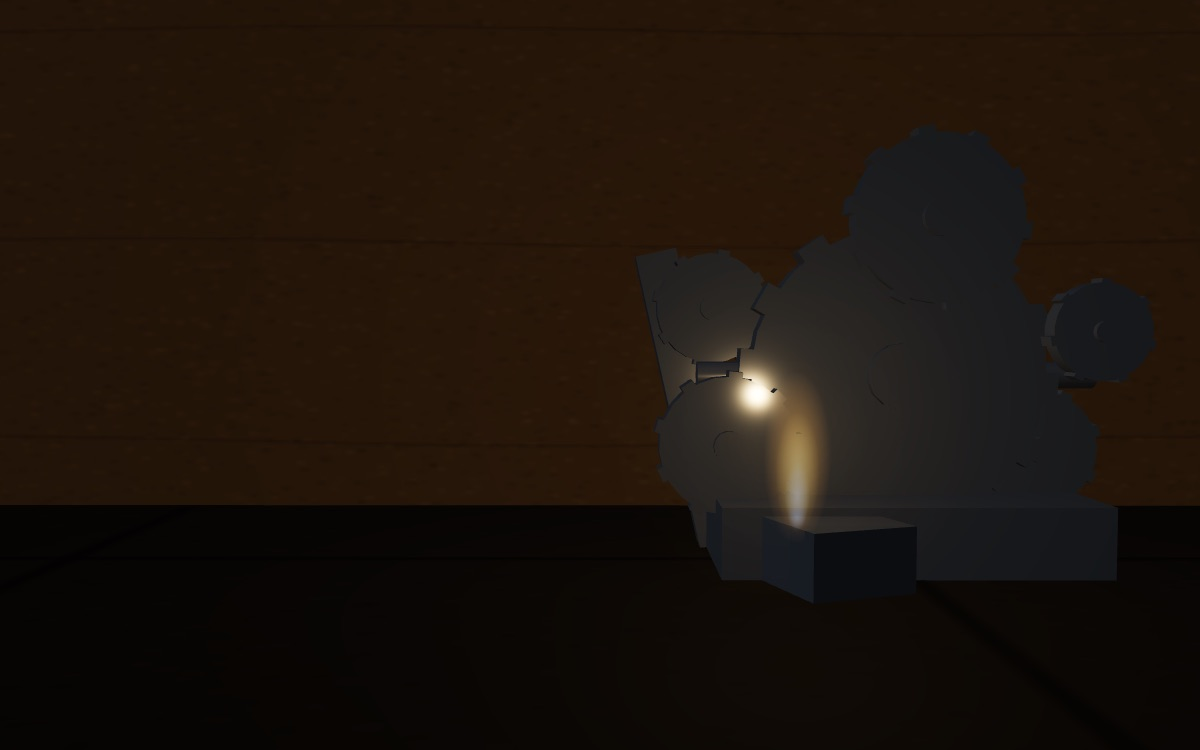
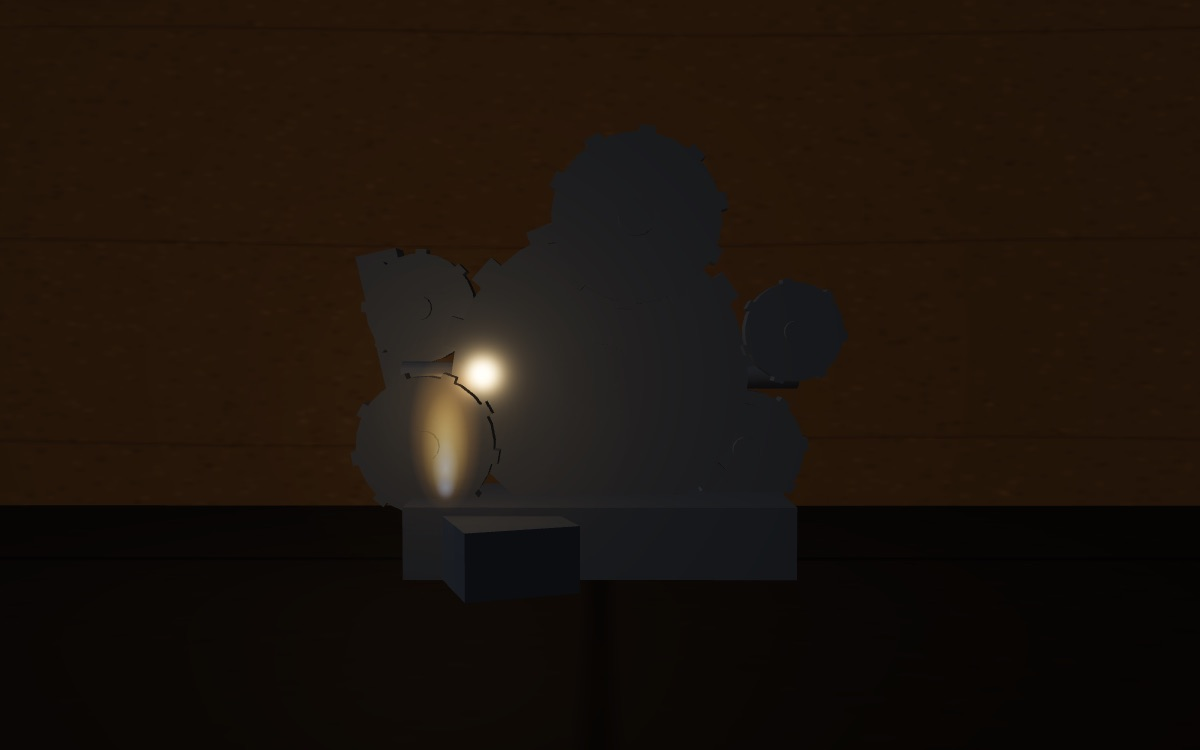
Glossaire : travail-mort-et-vivant réécrite selon la charte, direction artistique « la forge de nuit »

diff --git a/glossaire/mondes/travail-mort-et-vivant/essai.html b/glossaire/mondes/travail-mort-et-vivant/essai.html
@@ -1,48 +1,77 @@
-<!-- L'ESSAI — le corps de /glossaire/travail-mort-et-vivant.
-     data-s="3" = Troisième section de Roy (ch. VII–XI) ; data-s="4" =
-     quatrième section (ch. XII–XV). La paire traverse le livre : elle n'a
-     pas de chapitre à elle, et c'est précisément ce qu'il faut montrer. -->
+<!-- L'ESSAI : le corps de /glossaire/travail-mort-et-vivant.
+     Fragment HTML, assemblé par tools/gen-seo.mjs dans le gabarit des pages
+     de notion (avec meta.json pour la tête, l'appareil et le monde).
+     Réécrit en octobre 2026 selon glossaire/mondes/CHARTE.md.
+     data-s="3" = troisième section de Roy (chapitres VII à XI) ;
+     data-s="4" = quatrième section (chapitres XII à XV). La paire n'a pas
+     de chapitre à elle : on la suit d'une station à l'autre.
+     Un <q> ou <blockquote> data-s data-q est une phrase RELEVÉE dans le
+     texte que la liseuse sert, au caractère près (apostrophe typographique,
+     insécables de Roy). Ne rien « corriger ». -->
 
 <section class="nt-sec" data-etape="fait" id="fait">
-<h2>Ce qui ne bouge pas tout seul</h2>
-<p>Entrons dans une fabrique arrêtée. Il y a là des bâtiments, des arbres de couche, des métiers, des tonnes de matière première&nbsp;: une masse énorme de travail humain, accumulée sur des décennies, et absolument rien qui se passe. Pire que rien, même, car ces choses ne se contentent pas d'attendre&nbsp;: <q data-s="3" data-q="Le fer se rouille, le bois pourrit, la laine non travaillée est rongée par les vers">Le fer se rouille, le bois pourrit, la laine non travaillée est rongée par les vers</q>. Livré à lui-même, le travail passé se défait.</p>
-<p>C'est le premier terme de la paire, et Marx l'appelle du <i>travail mort</i>&nbsp;: non par mépris, mais parce que le mot dit exactement ce qu'il est — du travail achevé, fixé dans une chose, incapable de rien produire de plus. Il faut, pour qu'il serve encore, que quelque chose vienne l'atteindre&nbsp;: <q data-s="3" data-q="Le travail vivant doit ressaisir ces objets, les ressusciter des morts et les convertir d’utilités possibles en utilités efficaces">Le travail vivant doit ressaisir ces objets, les ressusciter des morts et les convertir d'utilités possibles en utilités efficaces</q>. La phrase qui suit est l'une des plus belles du livre, et la métaphore y est réglée au plus juste&nbsp;: <q data-s="3" data-q="Léchés par la flamme du travail, transformés en ses organes, appelés par son souffle à remplir le">Léchés par la flamme du travail, transformés en ses organes, appelés par son souffle à remplir le</q>s fonctions auxquelles leur destination les appelle.</p>
-<p>Voilà donc le problème, et il n'est pas celui qu'on croit. Il ne s'agit pas de décider laquelle des deux espèces de travail est la plus utile (la question serait vide, aucune ne va sans l'autre), mais de comprendre pourquoi, dans la production capitaliste, celle qui ne peut rien faire d'elle-même finit par commander celle qui peut tout.</p>
+<h2>Que veut dire «&nbsp;travail mort&nbsp;»&nbsp;?</h2>
+<p class="nt-lead">Le travail mort est le travail passé, déposé dans des choses&nbsp;: les bâtiments, les machines, les matières premières. Il ne produit rien de lui-même, et laissé à lui-même il se défait.</p>
+<p>Entrons dans une fabrique arrêtée. Il y a là des murs, des arbres de transmission, des métiers, des balles de coton&nbsp;: des années de travail humain, accumulées et immobiles. Rien ne s'y passe. Marx ajoute que ces choses ne se contentent pas d'attendre. <q data-s="3" data-q="Une machine qui ne sert pas au travail est inutile">Une machine qui ne sert pas au travail est inutile</q>, écrit-il au chapitre VII, et elle se détériore sous l'action de la nature&nbsp;: <q data-s="3" data-q="Le fer se rouille, le bois pourrit, la laine non travaillée est rongée par les vers">le fer se rouille, le bois pourrit, la laine non travaillée est rongée par les vers</q>.</p>
+<p>Le mot «&nbsp;mort&nbsp;» dit donc deux choses à la fois. Ce travail a eu lieu&nbsp;: quelqu'un a forgé le fer, filé la laine, monté le métier, et cette dépense est restée dans l'objet. Mais il est achevé, fixé dans une forme, et il ne peut plus rien ajouter. Le travail vivant, en face, c'est l'activité présente de ceux qui travaillent, la force de travail en train de s'exercer. Lui seul peut remettre les choses en mouvement&nbsp;:</p>
+<blockquote data-s="3" data-q="Le travail vivant doit ressaisir ces objets, les ressusciter des morts et les convertir d’utilités possibles en utilités efficaces"><p>Le travail vivant doit ressaisir ces objets, les ressusciter des morts et les convertir d’utilités possibles en utilités efficaces. Léchés par la flamme du travail, transformés en ses organes, appelés par son souffle à remplir leurs fonctions propres, ils sont aussi consommés, mais pour un but déterminé, comme éléments formateurs de nouveaux produits.</p></blockquote>
+<p>L'image de la flamme revient tout au long de cette page, et c'est Marx qui la fournit. Elle a deux mérites. Elle dit que le contact suffit, puisqu'une flamme n'a qu'à toucher ce qu'elle allume. Elle dit aussi que l'objet sert à condition d'être consommé&nbsp;: l'outil s'use, la matière disparaît dans le produit. Reste une question, et c'est elle qui donne son intérêt à la paire. Comment la chose qui ne peut rien finit-elle, dans la production capitaliste, par commander celui qui peut tout&nbsp;?</p>
 </section>
 
 <section class="nt-sec" data-etape="ou" id="ou">
-<h2>Où Marx l'établit&nbsp;: nulle part en particulier, et c'est le signe</h2>
-<p>Cette paire n'a pas de chapitre à elle. On la rencontre au chapitre VII, quand le procès de travail est décrit pour la première fois&nbsp;; au chapitre VIII, quand il s'agit de savoir qui conserve et qui crée de la valeur&nbsp;; au chapitre IX, dans la formule du taux&nbsp;; au chapitre X, où elle donne la phrase la plus citée du livre&nbsp;; au chapitre XV enfin, où elle se retourne. Il faut prendre cette dispersion pour ce qu'elle est&nbsp;: non pas une négligence de plan, mais l'indice que nous avons affaire à un <i>fil</i> plutôt qu'à un concept local.</p>
-<p>La raison en est simple. Travail mort et travail vivant ne sont pas deux objets qu'on pourrait définir séparément, comme on définit la journée de travail ou la coopération&nbsp;: c'est un <i>rapport</i>, et un rapport ne se démontre qu'en le suivant là où il agit. Marx le suit donc, et à chaque station il en tire autre chose&nbsp;: la conservation de la valeur, la mesure de l'exploitation, la lutte sur la durée du travail, la domination technique.</p>
-<p>Notons aussi la provenance du vocabulaire, car elle éclaire l'usage. Mort et vivant ne sont pas ici des images d'écrivain jetées en passant&nbsp;: ce sont les termes qui permettent de dire, en une seule fois, qu'une chose est du travail, donc de la valeur, et qu'elle n'agit pas. Le capitaliste, écrit Marx, transforme <q data-s="3" data-q="la valeur ‑ du travail passé, mort, devenu chose ‑ en capital, en valeur grosse de valeur, monstre animé qui se met à travailler comme s’il avait le diab">la valeur ‑ du travail passé, mort, devenu chose ‑ en capital, en valeur grosse de valeur, monstre animé qui se met à travailler comme s'il avait le diab</q>le au corps. On peut trouver la formule excessive&nbsp;; on ne peut pas dire qu'elle soit imprécise.</p>
+<h2>Pourquoi la paire n'a-t-elle pas de chapitre à elle&nbsp;?</h2>
+<p class="nt-lead">Parce qu'elle nomme un rapport, que Marx suit à travers le livre. On la rencontre du chapitre VII au chapitre XI, puis au chapitre XV, et chaque fois elle sert à établir autre chose.</p>
+<p>La journée de travail ou la coopération ont leur chapitre, où l'on peut les définir une fois pour toutes. Travail mort et travail vivant ne se laissent pas traiter ainsi&nbsp;: aucun des deux termes n'a de sens sans l'autre. Marx les fait donc revenir à chaque étape de son exposé. Au chapitre VII, il décrit le procès de travail en général, celui de toute société. Au chapitre VIII, il se demande qui conserve la valeur des moyens de production et qui en crée une nouvelle. Le chapitre IX en tire la mesure de l'exploitation, le chapitre X la lutte sur la durée de la journée, et le chapitre XI s'achève sur l'inversion des rôles entre l'ouvrier et ses moyens de travail. Au chapitre XV enfin, la machine rend cette inversion visible dans l'atelier.</p>
+<p>Le vocabulaire a une fonction précise. Dire d'une chose qu'elle est du travail mort, c'est dire en un seul mot qu'elle a de la valeur, puisqu'elle contient du travail, et qu'elle n'agit pas. C'est exactement ce qu'il faut pour décrire le capital, qui se présente comme une somme de valeurs et qui ne grossit qu'en se mettant au travail. Marx le dit au chapitre VII, en des termes qui annoncent déjà le vampire du chapitre X. Le capitaliste, en incorporant la force de travail aux moyens de production, transforme <q data-s="3" data-q="la valeur ‑ du travail passé, mort, devenu chose ‑ en capital, en valeur grosse de valeur, monstre animé qui se met à travailler comme s’il avait le diab">la valeur ‑ du travail passé, mort, devenu chose ‑ en capital, en valeur grosse de valeur, monstre animé qui se met à travailler comme s’il avait le diable au corps</q>. La formule est violente, et elle est exacte&nbsp;: le monstre ne s'anime que parce qu'on lui a donné de quoi vivre.</p>
 </section>
 
 <section class="nt-sec" data-etape="distinction" id="distinction">
-<h2>Une grandeur fixe, une grandeur fluide</h2>
-<p>La distinction est établie le plus rigoureusement au chapitre IX, et sous une forme presque algébrique. Ce qui se passe dans la production, c'est le remplacement d'une chose par une autre&nbsp;: <q data-s="3" data-q="le travail mort par le travail vivant, une grandeur fixe par une grandeur fluide, une constante par une variable">le travail mort par le travail vivant, une grandeur fixe par une grandeur fluide, une constante par une variable</q>. Quatre couples, et ils disent tous la même opposition sous quatre éclairages&nbsp;: la matière, l'état, la mesure, l'algèbre.</p>
-<p>Ce vocabulaire est celui-là même du chapitre VIII, et il faut voir que les deux pages disent la même chose de deux points de vue. Là, on comptait&nbsp;: la partie de l'avance qui devient moyens de production ne change pas de grandeur, celle qui achète des journées en change. Ici, on regarde qui agit&nbsp;: la masse accumulée ne se meut pas, la force vivante meut. Le comptable et le mécanicien décrivent le même fait, et c'est pourquoi ces deux notions se répondent, et pourquoi il serait vain de les traiter séparément.</p>
-<p>Le chapitre VIII fournit d'ailleurs la formule qui articule les deux&nbsp;: en tant qu'il est activité productive, <q data-s="3" data-q="le travail, par son simple contact avec les moyens de production, les ressuscite des morts, en fait les facteurs de son propre mouvement et s’unit avec eux pour constituer des produits">le travail, par son simple contact avec les moyens de production, les ressuscite des morts, en fait les facteurs de son propre mouvement et s'unit avec eux pour constituer des produits</q>. Trois choses y sont dites, et chacune compte. Le contact suffit&nbsp;: il n'y a pas d'opération supplémentaire à accomplir. Les choses deviennent les facteurs du mouvement <i>du travail</i>, et non l'inverse. Et l'union est réelle&nbsp;: le produit n'est ni l'un ni l'autre séparément.</p>
-<p>Encore faut-il tenir la conséquence, qui n'est pas rassurante pour le propriétaire de la masse. Une fabrique sans ouvriers n'est pas un capital au repos&nbsp;: c'est une valeur qui s'en va. Marx le note en observant ce que les industriels eux-mêmes écrivent&nbsp;: <q data-s="3" data-q="Les hauts fourneaux et les bâtiments de fabrique qui se reposent la nuit et n’absorbent aucun travail vivant, sont perte pure">Les hauts fourneaux et les bâtiments de fabrique qui se reposent la nuit et n'absorbent aucun travail vivant, sont perte pure</q>. Et au chapitre XV, la même chose est dite de la machine, qui <q data-s="4" data-q="perd d’autre part valeur d’usage et valeur d’échange dès que son contact avec le travail vivant est interrompu">perd d'autre part valeur d'usage et valeur d'échange dès que son contact avec le travail vivant est interrompu</q>.</p>
+<h2>Qui conserve la valeur, et qui en crée&nbsp;?</h2>
+<p class="nt-lead">Le travail vivant fait les deux. En s'exerçant sur les moyens de production, il fait passer leur valeur dans le produit et il y ajoute une valeur nouvelle. Le travail mort, lui, ne fait que transmettre ce qu'il contient déjà.</p>
+<p>Le chapitre VIII pose la distinction en comptable. Une partie de l'avance du capitaliste achète des moyens de production&nbsp;: sa valeur reparaît dans le produit sans changer de grandeur. L'autre partie achète de la force de travail&nbsp;: elle reparaît augmentée. Mais d'où vient que la valeur ancienne ne se perde pas&nbsp;? Marx répond par l'image du chapitre VII, devenue thèse. En tant qu'il est activité productive, <q data-s="3" data-q="le travail, par son simple contact avec les moyens de production, les ressuscite des morts, en fait les facteurs de son propre mouvement et s’unit avec eux pour constituer des produits">le travail, par son simple contact avec les moyens de production, les ressuscite des morts, en fait les facteurs de son propre mouvement et s’unit avec eux pour constituer des produits</q>.</p>
+<p>La phrase dit trois choses. Le contact suffit&nbsp;: le fileur n'a pas besoin d'un second travail pour conserver la valeur du coton, il lui suffit de le filer. Les choses deviennent les facteurs du mouvement du travail, et non l'inverse. Enfin le produit naît de leur union, ce qui veut dire que le travail vivant a toujours besoin de quelque chose à travailler. Au chapitre IX, Marx reprend le même fait sous une forme presque algébrique. Dans la production, la somme avancée pour les salaires se trouve remplacée par le mouvement de la force de travail&nbsp;: <q data-s="3" data-q="le travail mort par le travail vivant, une grandeur fixe par une grandeur fluide, une constante par une variable">le travail mort par le travail vivant, une grandeur fixe par une grandeur fluide, une constante par une variable</q>. On reconnaît les deux parties du capital, le <a href="/glossaire/capital-constant-et-variable">capital constant et le capital variable</a>, vues cette fois du côté de ce qui agit.</p>
+<div data-planche="forge"></div>
+<p>La conséquence est fâcheuse pour le propriétaire de la masse. Si le travail mort ne garde sa valeur qu'au contact du travail vivant, une fabrique arrêtée perd de la valeur. Marx l'écrit à la fin du chapitre XI&nbsp;: <q data-s="3" data-q="Les hauts fourneaux et les bâtiments de fabrique qui se reposent la nuit et n’absorbent aucun travail vivant, sont perte pure">les hauts fourneaux et les bâtiments de fabrique qui se reposent la nuit et n’absorbent aucun travail vivant, sont perte pure</q>. Il en tire, avec ironie, qu'ils constituent <q data-s="3" data-q="un titre, un droit au travail de nuit">un titre, un droit au travail de nuit</q> des ouvriers. La chose morte réclame du travail comme on réclame son dû.</p>
 </section>
 
 <section class="nt-sec" data-etape="mecanisme" id="mecanisme">
-<h2>L'absorption, et la soif</h2>
-<p>De ce qui précède découle une nécessité, et c'est elle qui rend le chapitre X compréhensible. Si la masse accumulée ne vaut qu'autant qu'elle absorbe du travail vivant, alors la tendance à prolonger la journée n'est pas un vice de caractère de tel ou tel patron&nbsp;: c'est la conduite qu'impose la forme même du rapport. Marx écrit donc la phrase qui a fait le tour du monde, et qu'il faut lire dans ce contexte plutôt que comme une invective&nbsp;: <q data-s="3" data-q="Le capital est du travail mort, qui, semblable au vampire, ne s’anime qu’en suçant le travail vivant, et sa vie est d’autant plus allègre qu’il en pompe davantage">Le capital est du travail mort, qui, semblable au vampire, ne s'anime qu'en suçant le travail vivant, et sa vie est d'autant plus allègre qu'il en pompe davantage</q>.</p>
-<p>Trois choses sont à relever dans cette image, et elles la sauvent d'être un simple ornement. D'abord elle est <i>exacte quant au mécanisme</i>&nbsp;: un vampire n'a pas de vie propre, il ne vit que d'une vie empruntée, et c'est très précisément le statut du travail mort. Ensuite elle est <i>quantitative</i> («&nbsp;d'autant plus allègre qu'il en pompe davantage&nbsp;»), ce qui n'est pas d'usage dans le registre gothique&nbsp;: la métaphore porte une proportionnalité. Enfin elle explique une <i>conduite</i> et non un caractère&nbsp;: c'est pourquoi Marx peut ailleurs écrire, sans se contredire, que le capitaliste individuel ne fait qu'obéir à la concurrence.</p>
-<p>La suite du chapitre X en donne la mesure&nbsp;: la prolongation dans la nuit <q data-s="3" data-q="n’agit que comme palliatif, n’apaise qu’approximativement la soif de vampire du capital pour le sang vivant du travail">n'agit que comme palliatif, n'apaise qu'approximativement la soif de vampire du capital pour le sang vivant du travail</q>, et la tendance véritable est de s'approprier les vingt-quatre heures. Ce qui borne cette tendance n'est donc pas un scrupule mais une résistance&nbsp;: la loi, l'inspection, la coalition. Et l'on comprend du même coup pourquoi le chapitre le plus long du livre est celui de la journée de travail.</p>
+<h2>Pourquoi le capital a-t-il soif de travail vivant&nbsp;?</h2>
+<p class="nt-lead">Parce que le capital est du travail mort qui ne vaut qu'en absorbant du travail vivant. Plus il en absorbe, plus il grossit&nbsp;: la tendance à allonger la journée découle de là.</p>
+<p>Au chapitre X, Marx se demande quelle limite le capitaliste assigne à la journée de travail. Il répond en le ramenant à sa fonction&nbsp;: <q data-s="3" data-q="En tant que capitaliste, il n’est que capital personnifié">en tant que capitaliste, il n’est que capital personnifié</q>. Ce que veut le capitaliste, c'est ce que demande le capital, et le capital ne demande qu'une chose, du travail. Vient alors la phrase la plus citée du livre&nbsp;:</p>
+<blockquote data-s="3" data-q="Le capital est du travail mort, qui, semblable au vampire, ne s’anime qu’en suçant le travail vivant, et sa vie est d’autant plus allègre qu’il en pompe davantage"><p>Le capital est du travail mort, qui, semblable au vampire, ne s’anime qu’en suçant le travail vivant, et sa vie est d’autant plus allègre qu’il en pompe davantage.</p></blockquote>
+<p>L'image tient pour deux raisons. Un vampire n'a pas de vie propre&nbsp;: il vit d'une vie prise à d'autres, ce qui est le statut du travail mort tel que les chapitres précédents l'ont établi. Et la phrase est quantitative, chose rare dans le registre du fantastique&nbsp;: sa vie est «&nbsp;d'autant plus allègre&nbsp;» qu'il pompe davantage. La suite du chapitre en donne la mesure. Prolonger le travail jusque dans la nuit <q data-s="3" data-q="n’apaise qu’approximativement la soif de vampire du capital pour le sang vivant du travail">n’apaise qu’approximativement la soif de vampire du capital pour le sang vivant du travail</q>&nbsp;. La tendance va jusqu'aux vingt-quatre heures du jour&nbsp;; comme les mêmes ouvriers ne peuvent pas travailler sans arrêt, on les fait se relayer, une équipe de jour et une équipe de nuit.</p>
+<div class="nt-ex">
+<p class="nt-ex-t">Un exemple</p>
+<p>À la fin du chapitre XI, Marx cite la lettre d'un filateur de Paisley, en Écosse, publiée en 1849 dans un journal de Glasgow contre la réduction de la journée de douze à dix heures. Le fabricant explique que, si ses ouvriers ne travaillent plus que dix heures, chacune de ses douze machines «&nbsp;se rapetisse&nbsp;» à dix&nbsp;: en vendant sa fabrique, il n'en tirerait que la valeur de dix machines, et toutes les fabriques du pays perdraient un sixième de leur valeur.</p>
+<p>Le raisonnement fait sourire, et il est pourtant juste du point de vue du capital. Ce que l'industriel croit vendre avec ses machines, c'est leur pouvoir d'absorber chaque jour une certaine quantité de travail. Deux heures de travail vivant en moins, et le travail mort vaut moins. Marx conclut d'une ligne&nbsp;: <q data-s="3" data-q="Une douzaine n’en vaudrait plus qu’une dizaine">une douzaine n’en vaudrait plus qu’une dizaine</q>.</p>
+</div>
+<p>La bonne ou la mauvaise volonté du patron n'y change pas grand-chose, et Marx le dit nettement à la fin du chapitre&nbsp;:<q data-s="3" data-q="La libre concurrence impose aux capitalistes les lois immanentes de la production capitaliste comme lois coercitives externes">la libre concurrence impose aux capitalistes les lois immanentes de la production capitaliste comme lois coercitives externes</q>. La limite vient du dehors, de la loi, des inspecteurs, de la résistance des ouvriers. C'est pourquoi le chapitre de la journée de travail est aussi, pour une bonne part, une histoire de lois et de luttes.</p>
 </section>
 
 <section class="nt-sec" data-etape="ouvre" id="ouvre">
-<h2>Le renversement&nbsp;: quand le mort commande</h2>
-<p>Tout ce qui précède laissait le travail vivant maître de la situation&nbsp;: c'est lui qui saisit, réveille, met en mouvement. Le chapitre XV renverse cela, et il le fait avec une précision qu'il faut souligner — le renversement n'est pas d'abord juridique ni idéologique, il est <i>technique</i>. Dans la manufacture, l'ouvrier se servait d'un outil&nbsp;; dans la fabrique, la machine est le point de départ du mouvement et l'ouvrier n'a qu'à le suivre. Marx écrit&nbsp;: <q data-s="4" data-q="Le moyen de travail converti en automate se dresse devant l’ouvrier pendant le procès de travail même sous forme de capital, de travail mort qui domine et pompe sa force vivante">Le moyen de travail converti en automate se dresse devant l'ouvrier pendant le procès de travail même sous forme de capital, de travail mort qui domine et pompe sa force vivante</q>.</p>
-<p>Il faut mesurer ce que ce « se dresse devant » ajoute. Jusque-là, le travail mort était ce qu'on prend en main&nbsp;; il devient ce qui fait face. Et l'expression <q data-s="4" data-q="donne à ce renversement une réalité technique">donne à ce renversement une réalité technique</q>&nbsp;: la subordination cesse d'être une clause du contrat pour devenir la disposition matérielle de l'atelier, inscrite dans la cadence des machines. C'est ce qui sépare un commandement d'une subsomption réelle.</p>
-<p>Marx relève enfin la trace que ce renversement laisse dans les têtes, et c'est un beau passage de méthode&nbsp;: il va chercher, dans les écrits des industriels anglais pendant leur révolte de 1848-1860, la manière dont <q data-s="3" data-q="cette interversion des rôles qui caractérise la production capitaliste, comment ce renversement étrange du rapport entre le travail mort et le travail vivant, entre la valeur et la force créatrice de valeur, se reflète dans la conscience des seigneurs du capital">cette interversion des rôles qui caractérise la production capitaliste, comment ce renversement étrange du rapport entre le travail mort et le travail vivant, entre la valeur et la force créatrice de valeur, se reflète dans la conscience des seigneurs du capital</q>. Les fabricants y écrivaient que leurs bâtiments et leurs hauts fourneaux constituent « un titre, un droit au travail ». Le renversement était donc déjà formulé par ceux-là mêmes qui en profitaient&nbsp;: la chose morte réclame du travail comme on réclame son dû.</p>
+<h2>Que change la machine dans ce rapport&nbsp;?</h2>
+<p class="nt-lead">Elle le retourne dans l'atelier même. Avec l'outil, l'ouvrier mettait la chose en mouvement&nbsp;; avec la machine, c'est la chose qui donne le mouvement, et l'ouvrier qui le suit.</p>
+<p>Le renversement est annoncé dès la fin du chapitre XI. Tant qu'on regarde la production comme fabrication d'objets utiles, les moyens de production servent l'ouvrier, qui tanne le cuir et non le capital. Dès qu'on la regarde comme production de plus-value, l'ordre s'inverse&nbsp;: <q data-s="3" data-q="Ce n’est plus le travailleur qui les emploie, mais ce sont au contraire eux qui emploient le travailleur">ce n’est plus le travailleur qui les emploie, mais ce sont au contraire eux qui emploient le travailleur</q>. Ce renversement reste d'abord un rapport de valeur, qui ne se voit pas dans l'atelier. Le chapitre XV montre comment la grande industrie le rend visible. Dans toute production capitaliste, écrit Marx, les conditions du travail dominent l'ouvrier, <q data-s="4" data-q="mais c’est le machinisme qui le premier donne à ce renversement une réalité technique">mais c’est le machinisme qui le premier donne à ce renversement une réalité technique</q>&nbsp;:</p>
+<blockquote data-s="4" data-q="Le moyen de travail converti en automate se dresse devant l’ouvrier pendant le procès de travail même sous forme de capital, de travail mort qui domine et pompe sa force vivante"><p>Le moyen de travail converti en automate se dresse devant l’ouvrier pendant le procès de travail même sous forme de capital, de travail mort qui domine et pompe sa force vivante.</p></blockquote>
+<p>Le verbe compte. Le travail mort était ce qu'on prend en main&nbsp;; il devient ce qui se dresse en face. La subordination cesse d'être une clause du contrat de travail pour devenir la disposition de l'atelier, inscrite dans la vitesse des métiers. Marx la lit chez Andrew Ure, l'apologiste de la fabrique, qui en donne deux définitions. Dans la première, les ouvriers surveillent un système de machines&nbsp;; dans la seconde, <q data-s="4" data-q="c’est l’automate même qui est le sujet et les travailleurs sont tout simplement adjoints comme organes conscients à ses organes inconscients">c’est l’automate même qui est le sujet et les travailleurs sont tout simplement adjoints comme organes conscients à ses organes inconscients</q>. Pour Marx, la seconde décrit la fabrique capitaliste.</p>
+<p>La machine élève aussi l'enjeu de chaque heure. Elle immobilise une part croissante du capital sous une forme qui <q data-s="4" data-q="perd d’autre part valeur d’usage et valeur d’échange dès que son contact avec le travail vivant est interrompu">perd d’autre part valeur d’usage et valeur d’échange dès que son contact avec le travail vivant est interrompu</q>. Marx rapporte la plainte d'un grand filateur anglais, Ashworth&nbsp;: un laboureur qui pose sa pioche laisse inutile un capital de douze pence, tandis que <q data-s="4" data-q="Quand un de nos hommes abandonne la fabrique, il rend inutile un capital qui a coûté cent mille livres sterling">quand un de nos hommes abandonne la fabrique, il rend inutile un capital qui a coûté cent mille livres sterling</q>. Plus la masse morte est grande, plus l'absence d'un seul vivant coûte cher. L'économiste Nassau Senior, à qui Ashworth faisait la leçon, finit par juger «&nbsp;désirable&nbsp;» une journée de travail toujours plus longue.</p>
 </section>
 
 <section class="nt-sec" data-etape="lectures" id="lectures">
-<h2>Ce que la métaphore prouve, et ce qu'elle ne prouve pas</h2>
-<p>Cette paire a nourri deux lectures opposées, et toutes deux nous paraissent manquer quelque chose. La première, littéraire, fait de Marx un auteur gothique&nbsp;: vampires, monstres animés, morts qu'on ressuscite, et l'on conclut que <i>Le Capital</i> est d'abord une œuvre d'imagination dont l'économie serait le prétexte. La lecture a du vrai (les images sont là, et elles sont belles), mais elle oublie que chacune est <i>gagée</i>&nbsp;: le vampire vient après le chapitre VIII, qui a établi qu'une partie de l'avance ne crée rien, et il n'ajoute pas un gramme à la démonstration. Retirez les images, l'argument tient&nbsp;; retirez le chapitre VIII, il ne tient plus. On ne peut donc pas faire de ces figures le ressort du livre.</p>
-<p>La seconde lecture, technophobe, croit trouver ici une condamnation des machines et cite le vampire à l'appui. C'est un contresens sur le sujet de la phrase&nbsp;: ce qui pompe le travail vivant est le capital, dont la machine n'est que la forme d'existence dans l'atelier. Marx est explicite ailleurs, et jusqu'à l'ironie&nbsp;: il raille l'économiste qui déclare que les misères de la fabrique n'existent pas puisqu'elles <q data-s="4" data-q="proviennent non de la machine, mais de son exploitation capitaliste">proviennent non de la machine, mais de son exploitation capitaliste</q>, alors que c'est le même objet qui, <q data-s="4" data-q="moyen infaillible pour raccourcir le travail quotidien, elle le prolonge entre les mains capitalistes">moyen infaillible pour raccourcir le travail quotidien, elle le prolonge entre les mains capitalistes</q>. Confondre le moyen technique et son usage social, c'est manquer ce que l'analyse a précisément pour but de séparer.</p>
-<p>Nous nous rangeons pour notre part du côté d'une troisième lecture, plus sobre&nbsp;: la paire mort/vivant est le nom que Marx donne à une <i>asymétrie causale</i>, et sa fonction dans le livre est de rendre pensable un fait par ailleurs difficile à formuler — qu'un ensemble de choses inertes puisse imposer sa loi à des vivants sans que personne l'ait décidé. C'est un problème que les sciences sociales retrouveront sous d'autres noms, et l'on voit mal quel vocabulaire ferait mieux&nbsp;: dire que le capital est un rapport social, c'est vrai mais abstrait&nbsp;; dire qu'il est du travail mort qui ne s'anime qu'en suçant du travail vivant, c'est en donner le mécanisme.</p>
-<p>Reste une limite qu'il faut nommer, et elle n'est pas mince. La métaphore vitale suggère une intention là où il n'y a qu'une contrainte&nbsp;: un vampire a soif, un capital n'a rien. Marx le sait, et il prend soin d'écrire que la conduite du capitaliste lui est imposée&nbsp;; mais la langue tire dans l'autre sens, et beaucoup de lectures ultérieures y ont vu un sujet caché qui voudrait quelque chose. La bonne manière de lire ces pages est donc de les tenir pour ce qu'elles sont&nbsp;: la description d'un mécanisme sans agent, dite dans la seule langue qui permette de le décrire vite.</p>
+<h2>Comment lire ces images, et quels contresens éviter&nbsp;?</h2>
+<p class="nt-lead">Les images de Marx (le mort qu'on ressuscite, le monstre, le vampire) décrivent un mécanisme. On les lit bien en les rapportant à la démonstration qu'elles résument.</p>
+<p>Une lecture littéraire a fait de Marx un auteur gothique, et de ces pages la preuve que <i>Le Capital</i> serait d'abord une œuvre d'imagination. Les images sont là, et elles sont travaillées. Mais chacune vient après un argument qui tient sans elle. Le vampire du chapitre X arrive une fois établi, au chapitre VIII, que les moyens de production ne créent aucune valeur nouvelle. Retirez le vampire, l'argument demeure&nbsp;; retirez le chapitre VIII, le vampire ne prouve plus rien.</p>
+<p>Ce que la paire permet de dire, et que le vocabulaire ordinaire dit mal, c'est qu'un ensemble de choses inertes peut imposer sa loi à des vivants sans que personne l'ait décidé. Dire que le capital est un rapport social est juste, mais reste abstrait. Dire qu'il est du travail mort qui ne vit qu'en absorbant du travail vivant, c'est en donner le fonctionnement. Il faut seulement se garder de prendre l'image au pied de la lettre&nbsp;: un vampire a soif, un capital n'a rien. Nous lisons donc ces pages comme la description d'une contrainte sans sujet, que Marx exprime dans la langue la plus rapide dont il dispose.</p>
+<div class="nt-cs">
+<p><span class="nt-cs-k">On lit souvent</span> Marx condamnerait les machines&nbsp;: le travail mort serait un mal en lui-même.</p>
+<p><span class="nt-cs-k">Ce que dit le texte</span> Marx distingue la machine et son emploi. Des deux définitions de la fabrique que donne Ure, il écrit que <q data-s="4" data-q="La première définition s’applique à tout emploi possible d’un système de mécaniques">la première définition s’applique à tout emploi possible d’un système de mécaniques</q>, la seconde seulement à son emploi capitaliste. La machine est un <q data-s="4" data-q="moyen infaillible pour raccourcir le travail quotidien, elle le prolonge entre les mains capitalistes">moyen infaillible pour raccourcir le travail quotidien</q> que le capital fait servir à l'allonger.</p>
+</div>
+<div class="nt-cs">
+<p><span class="nt-cs-k">On lit souvent</span> Le vampire serait le patron, et la formule dénoncerait la cupidité de certains hommes.</p>
+<p><span class="nt-cs-k">Ce que dit le texte</span> Le sujet de la phrase est le capital. Le capitaliste n'en est que la personnification, et la concurrence lui impose ses lois «&nbsp;comme lois coercitives externes&nbsp;». Un patron généreux n'échappe pas à la soif du capital qu'il dirige.</p>
+</div>
+<div class="nt-cs">
+<p><span class="nt-cs-k">On lit souvent</span> Les machines créeraient de la valeur, puisque la production grandit avec elles&nbsp;; ou bien, à l'inverse, le travail mort n'aurait aucune valeur.</p>
+<p><span class="nt-cs-k">Ce que dit le texte</span> Le travail mort a une valeur, celle du travail qu'il contient, et il la transmet au produit à mesure qu'il s'use. Il n'en ajoute aucune. Les machines rendent le travail plus productif&nbsp;; la valeur nouvelle vient du seul travail vivant.</p>
+</div>
 </section>

diff --git a/glossaire/mondes/travail-mort-et-vivant/monde.js b/glossaire/mondes/travail-mort-et-vivant/monde.js
@@ -277,10 +277,13 @@ window.LM_MONDE = function (canvas) {
     /* ── LE CADRAGE ───────────────────────────────────────────────────
        Page « plein » : la visée est décalée à GAUCHE de 0,25 de la largeur
        vue, ce qui porte la masse à environ 75 % — la part claire du voile.
-       La masse et l'orbite tiennent alors entre 57 % et 93 %. */
+       La masse et l'orbite tiennent alors entre 57 % et 93 %.
+       Depuis octobre 2026 la scène est aussi une figure en bas de page :
+       là, et sur tout canevas de moins de 1100 px, elle se cadre centrée. */
     var dz = lerp(1.48, 1.38, ss(0, 1, Math.min(1, G / 3)));
     var visW = 1.102 * dz;
-    var aim = V3(-0.245 * visW, 0.235, 0.0);
+    var large = canvas.clientWidth >= 1100 && !(canvas.closest && canvas.closest('.nt-fig'));
+    var aim = V3(large ? -0.245 * visW : 0, 0.235, 0.0);
     camera.position.set(aim.x + 0.010 * Math.sin(T * 0.19), aim.y + 0.055 + 0.007 * Math.sin(T * 0.24), aim.z + dz);
     camera.lookAt(aim);
     render();
